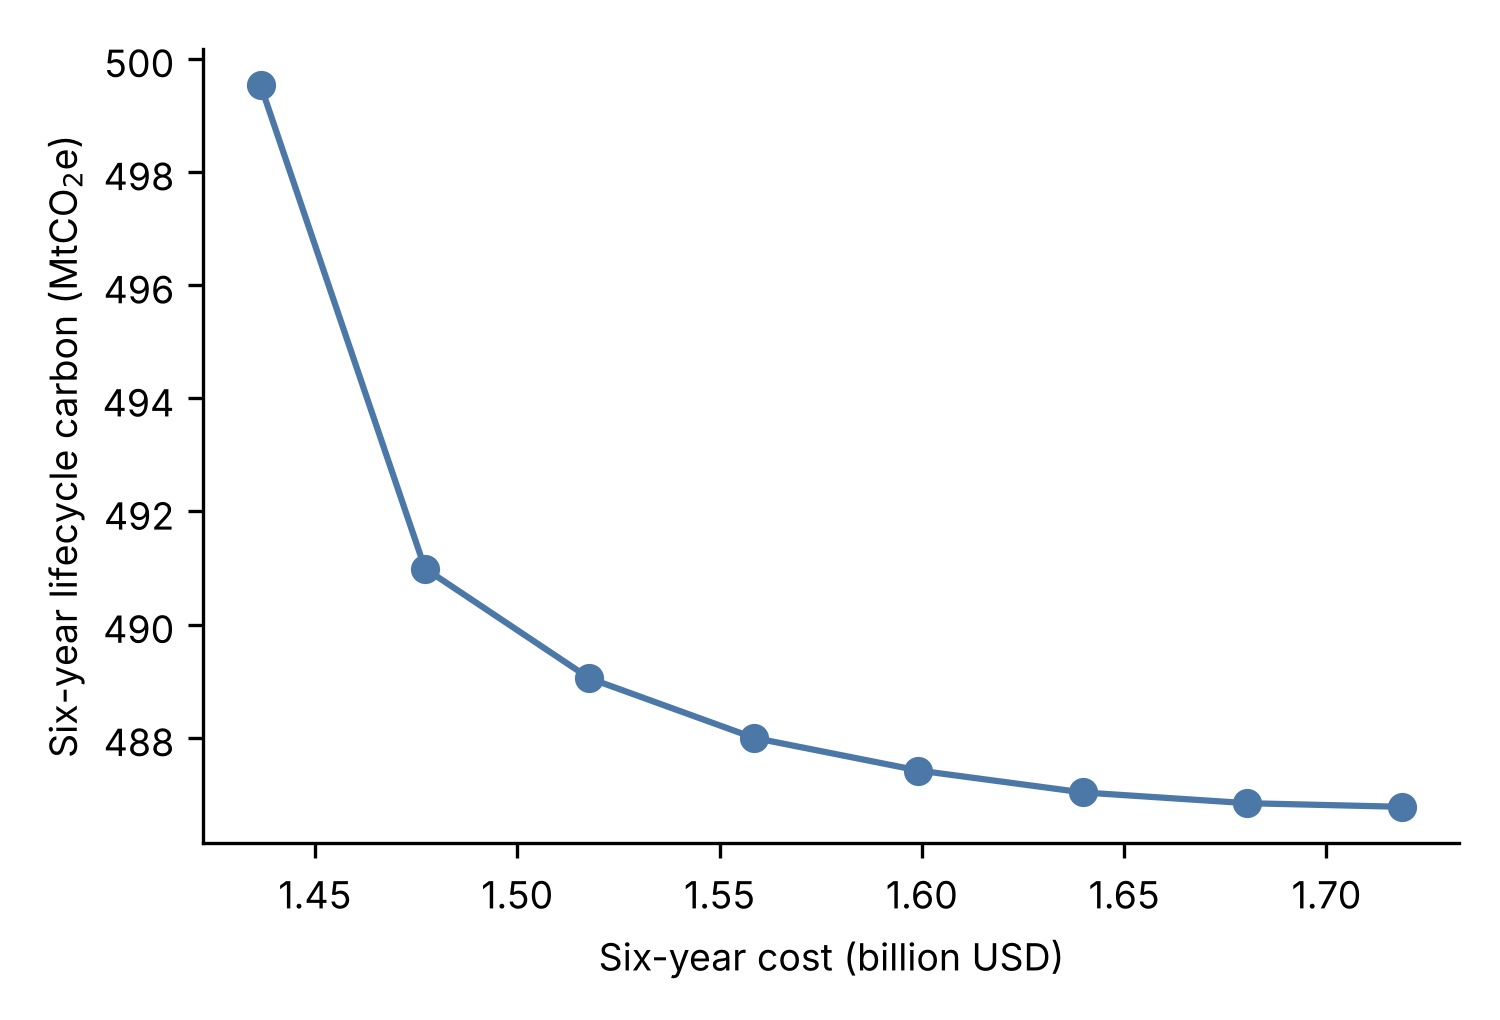
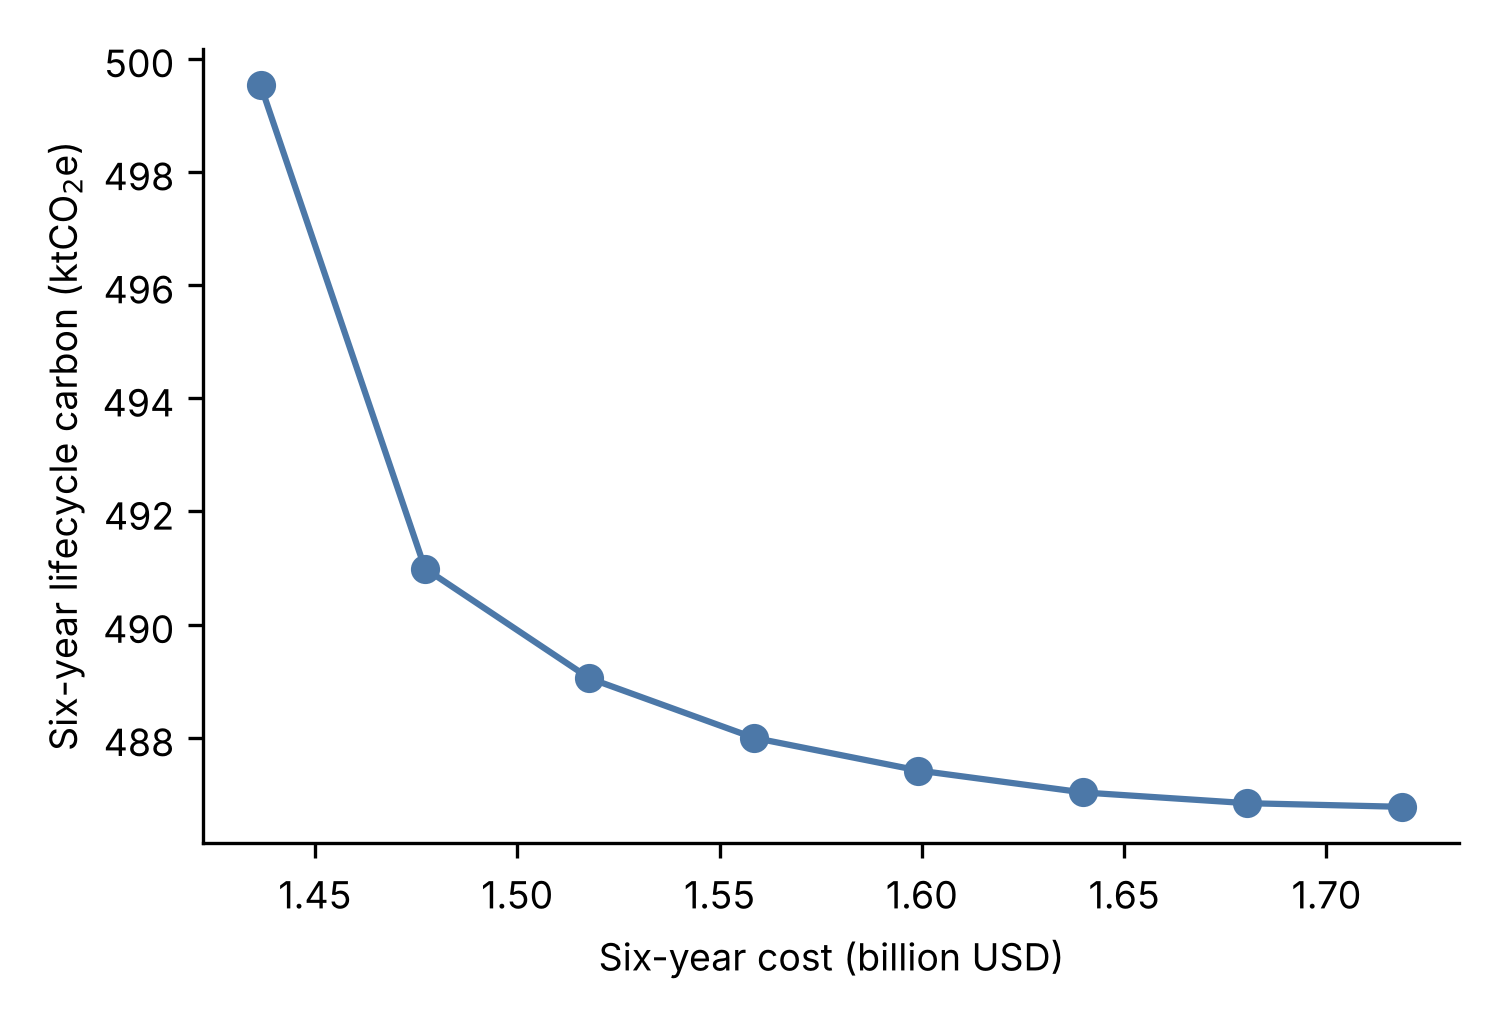
paper-orchestra: document results; regenerate Pareto figure with ktCO2e axis
Claude-Session: https://claude.ai/code/session_01SrTDtYHb17nmR9s8F7ieNL

Changed region(s): [[0.0307, 0.1216, 0.0613, 0.7598]]

diff --git a/paper/google_po/README.md b/paper/google_po/README.md
@@ -47,3 +47,26 @@ PO_BACKEND=bridge PO_BRIDGE_DIR=/path/to/bridge bash paper/google_po/run.sh   # 
 It uses the official ICLR 2025 template and a literature cutoff of 2026-10. **Estimated cost:** about USD 10–20, based on roughly 60–70 calls at Gemini 3.1 Pro prices (USD 2 / 12 per million input / output tokens) plus web searches.
 
 Requirements: Python 3.10+, `pdflatex` and `bibtex`, and texlive-science (`algorithm.sty`).
+
+## Result of the published run
+- **Paper:** [`output/final_paper.pdf`](output/final_paper.pdf), 22 pages, main text 10 pages, ICLR 2025 template. The LaTeX source is in `output/content_refinement_workdir/final_refined_paper.tex`.
+- **Pipeline steps:**
+  1. outline;
+  2. literature agent: 41 search calls, 21 verified papers;
+  3. section writing;
+  4. AgentReview, then 3 rounds of refinement by "rebuttal via revision";
+  5. a format check and a format fix.
+- **Review scores (v0 → v3):** overall 3, 3, 3, 4 (1–10 scale), decision Reject throughout; the reviews are in `output/content_refinement_workdir/peer_reviews/`. The reviewers' main objection was the same each time: GPU throughput, power and the CXL slowdown are placeholders. The GPU measurements in `gpu/` have not been run.
+- **Phase 6 came from the reviews.** The v2 and v3 reviews spotted that the reuse host combines a part that saves carbon (reused SSDs) with one that costs it (reused DRAM over CXL). That led to Phase 6 (`paper/notes/P6_FINDINGS.md`): reusing SSDs alone doubles the fleet saving. Phase 6 came after this paper run, so the paper only states it as a hypothesis.
+- **Run records:**
+  - `output/bridge_archive/bridge_requests_responses.tar.gz`: every prompt and answer (page renders left out);
+  - `output/run*.log`: pipeline logs.
+
+The run was restarted three times: twice before the restart below, then once after a container reboot. Replay rules:
+- **Identical prompt:** answers were reused automatically by the replay cache.
+- **Only the list order changed:** answers were reused by hand (Python set ordering differed between restarts). Each such reuse is logged in `manual_replay.log` inside the archive.
+
+**Known issues in the PDF:**
+- Figure 7's axis was labelled MtCO2e; the values are ktCO2e. The figure has been regenerated in `raw_materials/figures/`, but the published PDF still has the old image plus a caption note.
+- One Unicode ∞ in a bib title causes a non-fatal LaTeX error.
+- The ICLR anonymous mode prints "Anonymous authors".
